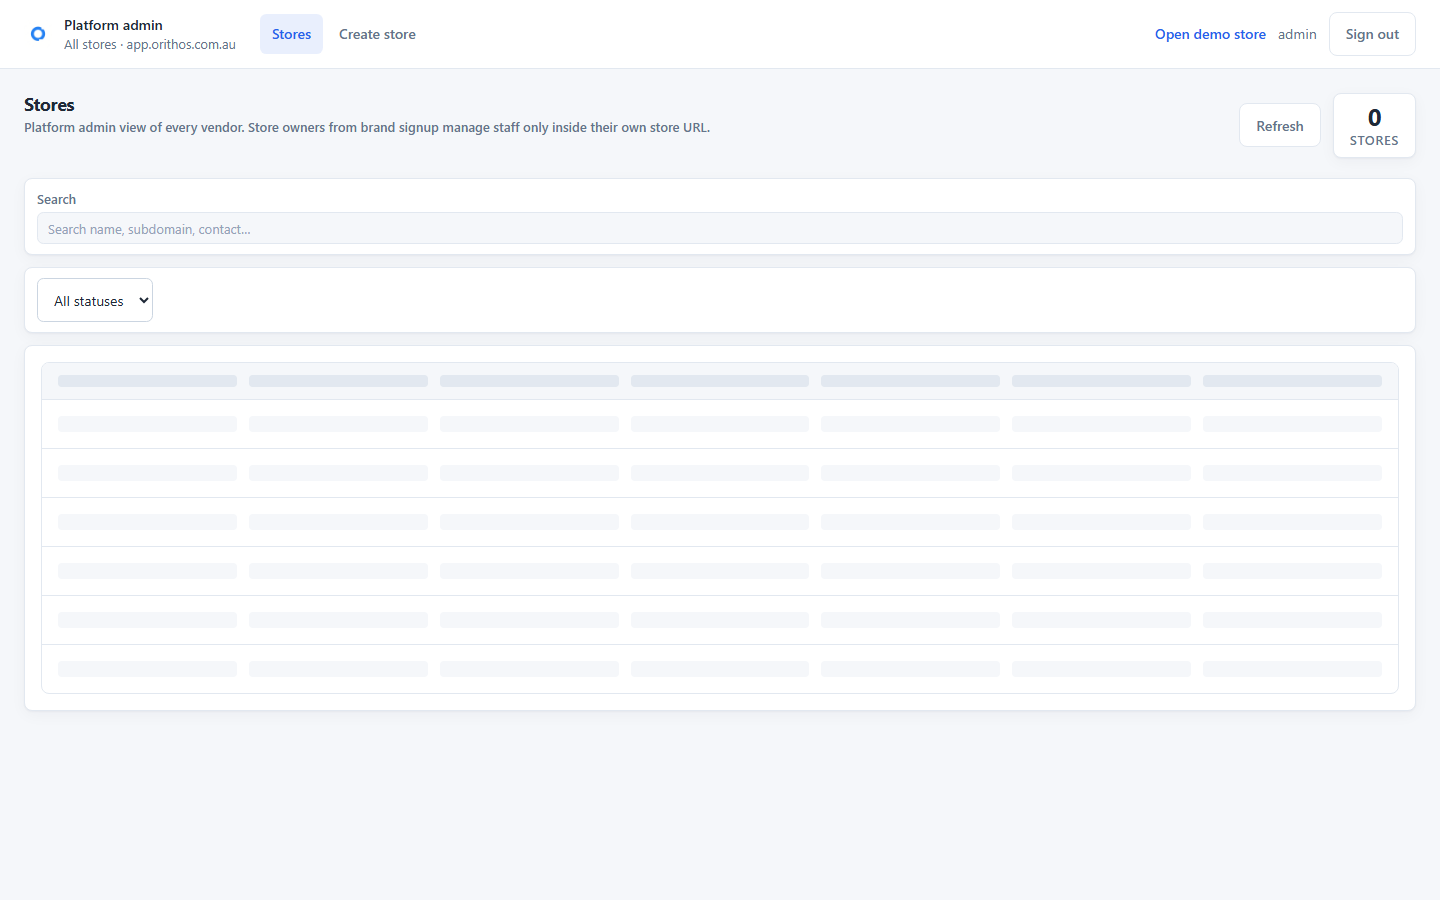
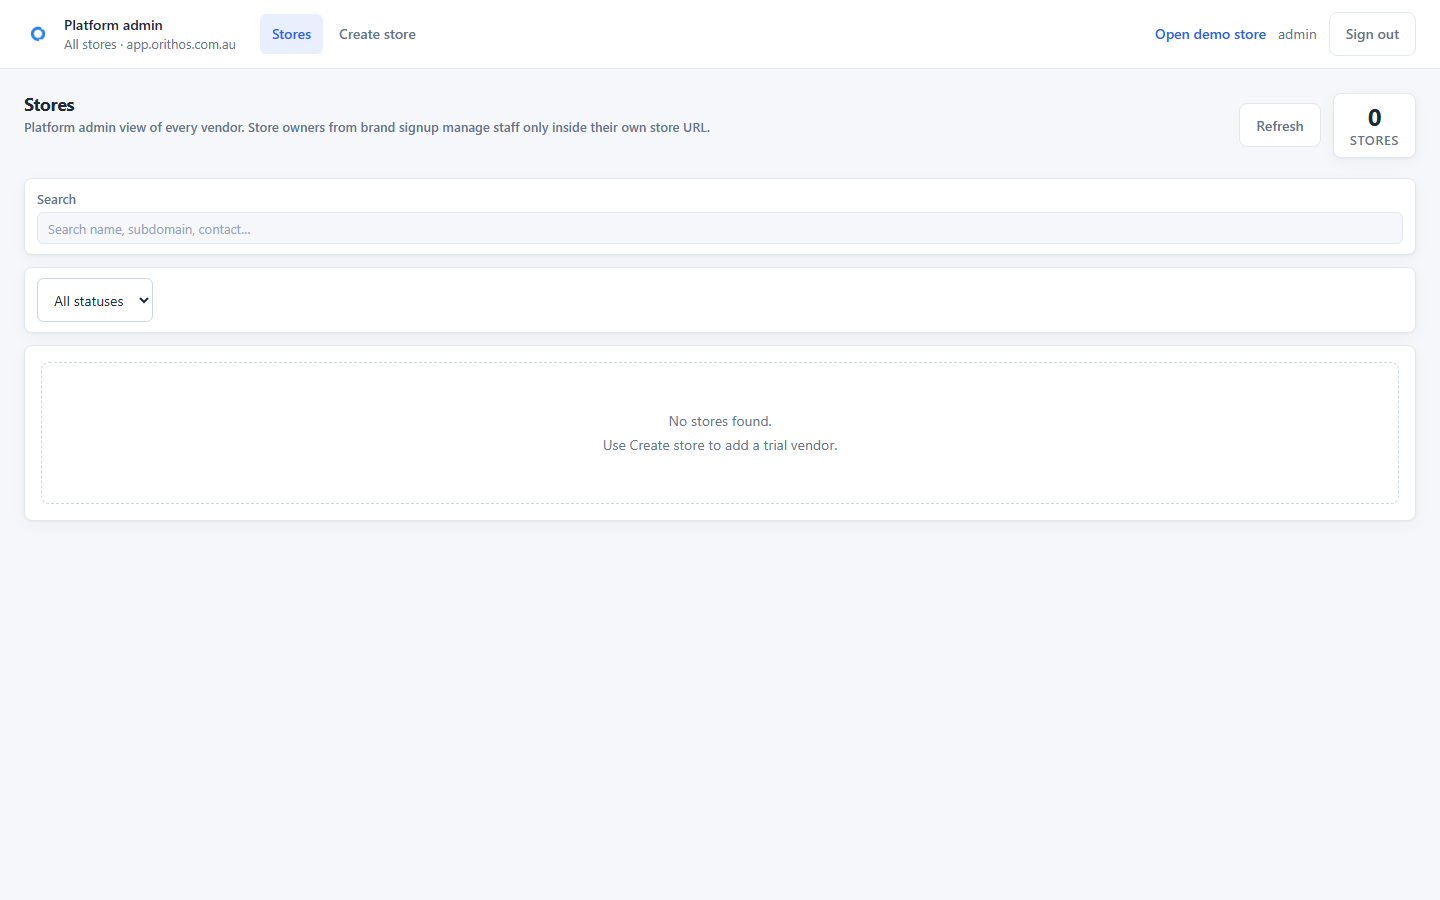
test: capture latest admin list read-only evidence

Changed region(s): [[0.0312, 0.4044, 0.9688, 0.4356], [0.4375, 0.4667, 0.5625, 0.4978]]

diff --git a/docs/HANDOFF_CURRENT_2026-10-17.md b/docs/HANDOFF_CURRENT_2026-10-17.md
@@ -30,6 +30,7 @@
 - 认证页面矩阵曾达到 131 路由 × 390/1440 = `262/262 PASS`；重点页面截图和大量 JSON UAT 证据已保存到 `docs/`。
 - 本地检查已有 `npm run typecheck`、目标 ESLint、`git diff --check` 通过；本机按既定约束未运行 `npm run build`。
 - 本批次新增通用可访问性与键盘交互优化：`Pagination` 标注当前页并为 Prev/Next 提供明确的 ARIA 名称；`AsyncState` 的加载、错误、空态增加 live-region 语义，Retry 按钮统一达到 44px 触控高度并保留焦点环；`Modal`、`ConfirmDialog`、`AlertDialog` 打开时把焦点放到可用关闭/确认控件，关闭后恢复到触发控件。该批次只涉及前端交互和语义，不调用业务写入 API。
+- 最新认证只读管理列表回归为 `8/8 PASS`，覆盖 `/purchases/odoo`、`/utilities/mail-log`、`/utilities/trashed-items`、`/platform/stores` 在 390px/1440px；证据见 `docs/UAT_ADMIN_LIST_BATCH_2026-10-17.json` 和对应截图目录，`sourceCommit=2bdeb80`、`deployment` 为空。
 
 ### 未完成、未覆盖或证据不足
 
